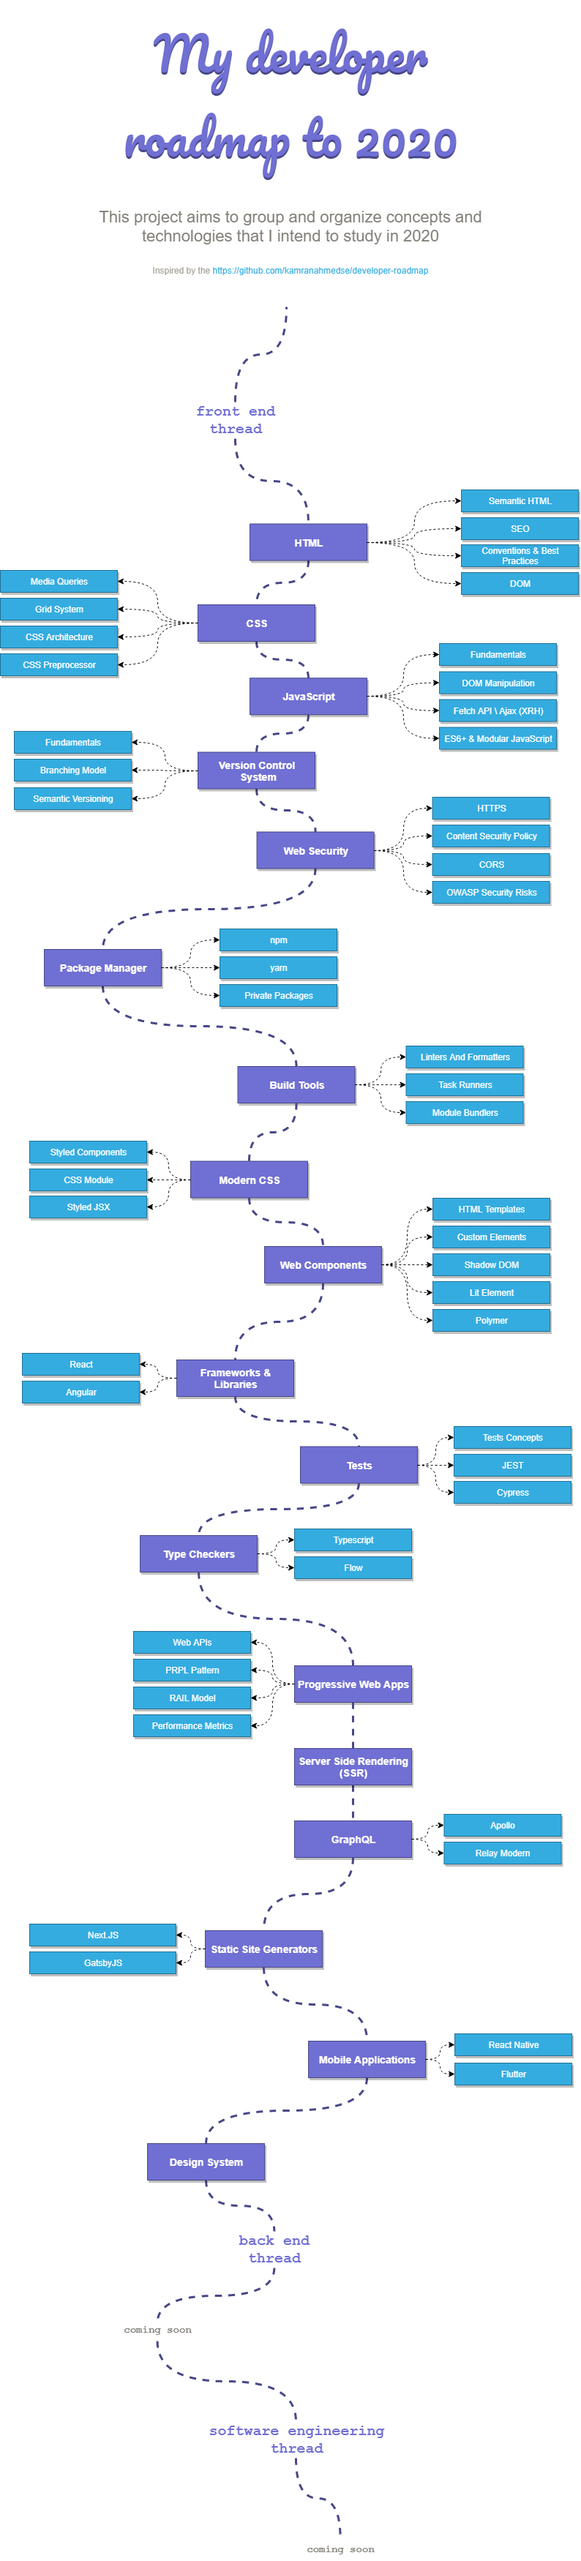
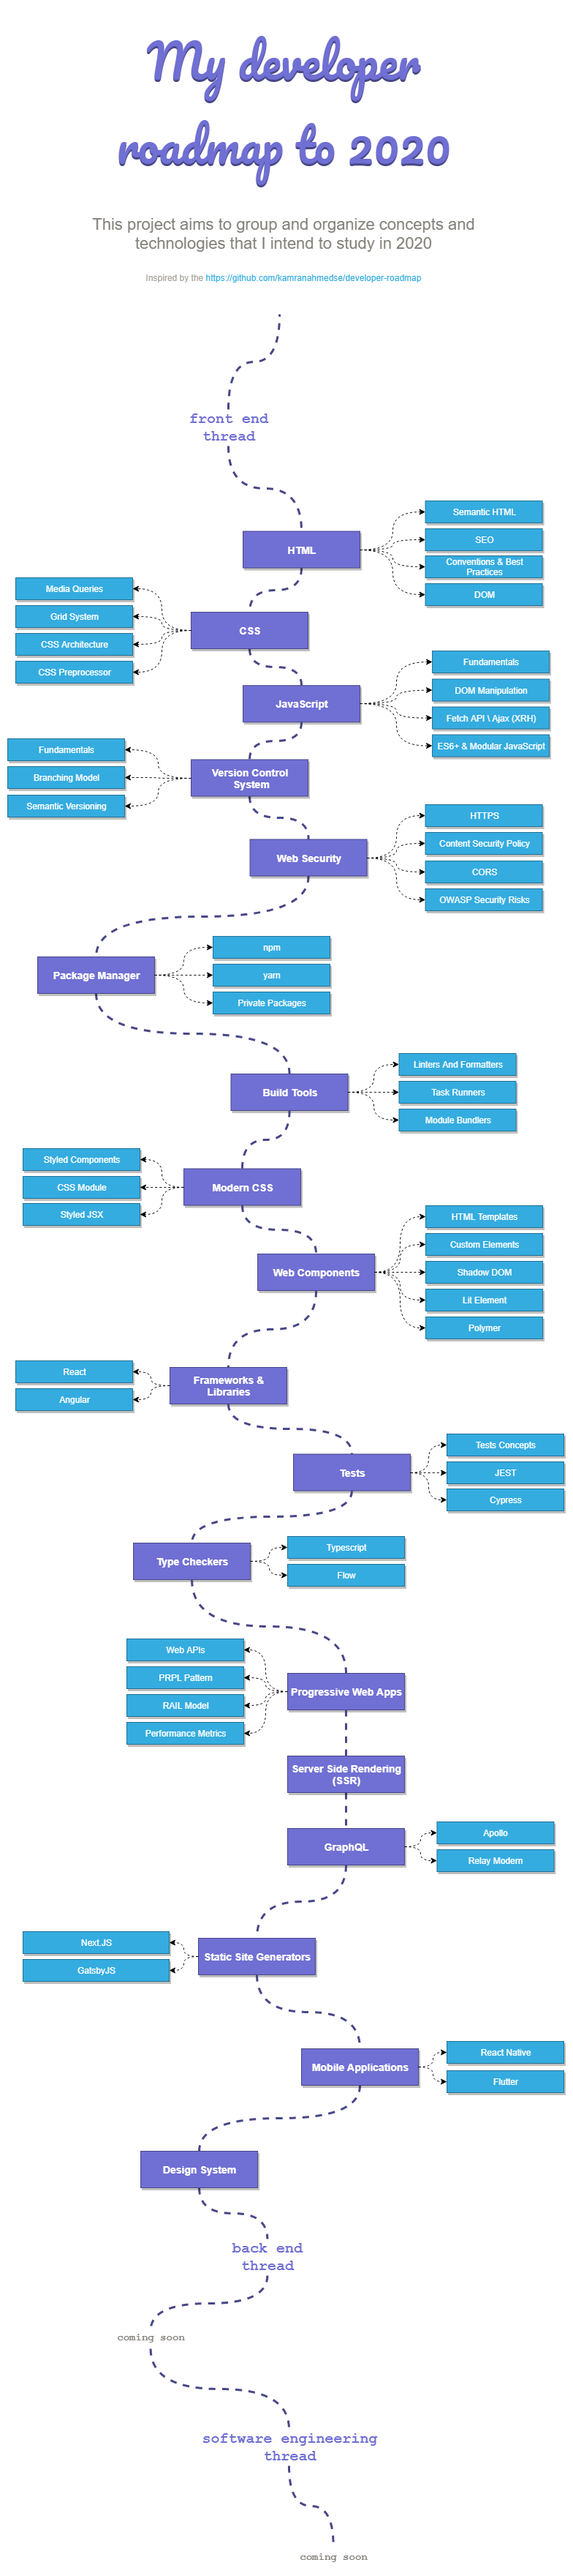
adding roadmap preview

diff --git a/README.md b/README.md
@@ -1,2 +1,6 @@
 # My developer roadmap to 2020
-This project aims to group and organize concepts and technologies that I intend to study in 2020. Inspired by the [kamranahmedse/developer-roadmap](https://github.com/kamranahmedse/developer-roadmap)
+This project aims to group and organize concepts and technologies that I intend to study in 2020. 
+
+<sub>Inspired by the [kamranahmedse/developer-roadmap](https://github.com/kamranahmedse/developer-roadmap)</sub>
+
+![Roadmap](./assets/my-developer-roadmap-2020.png)
